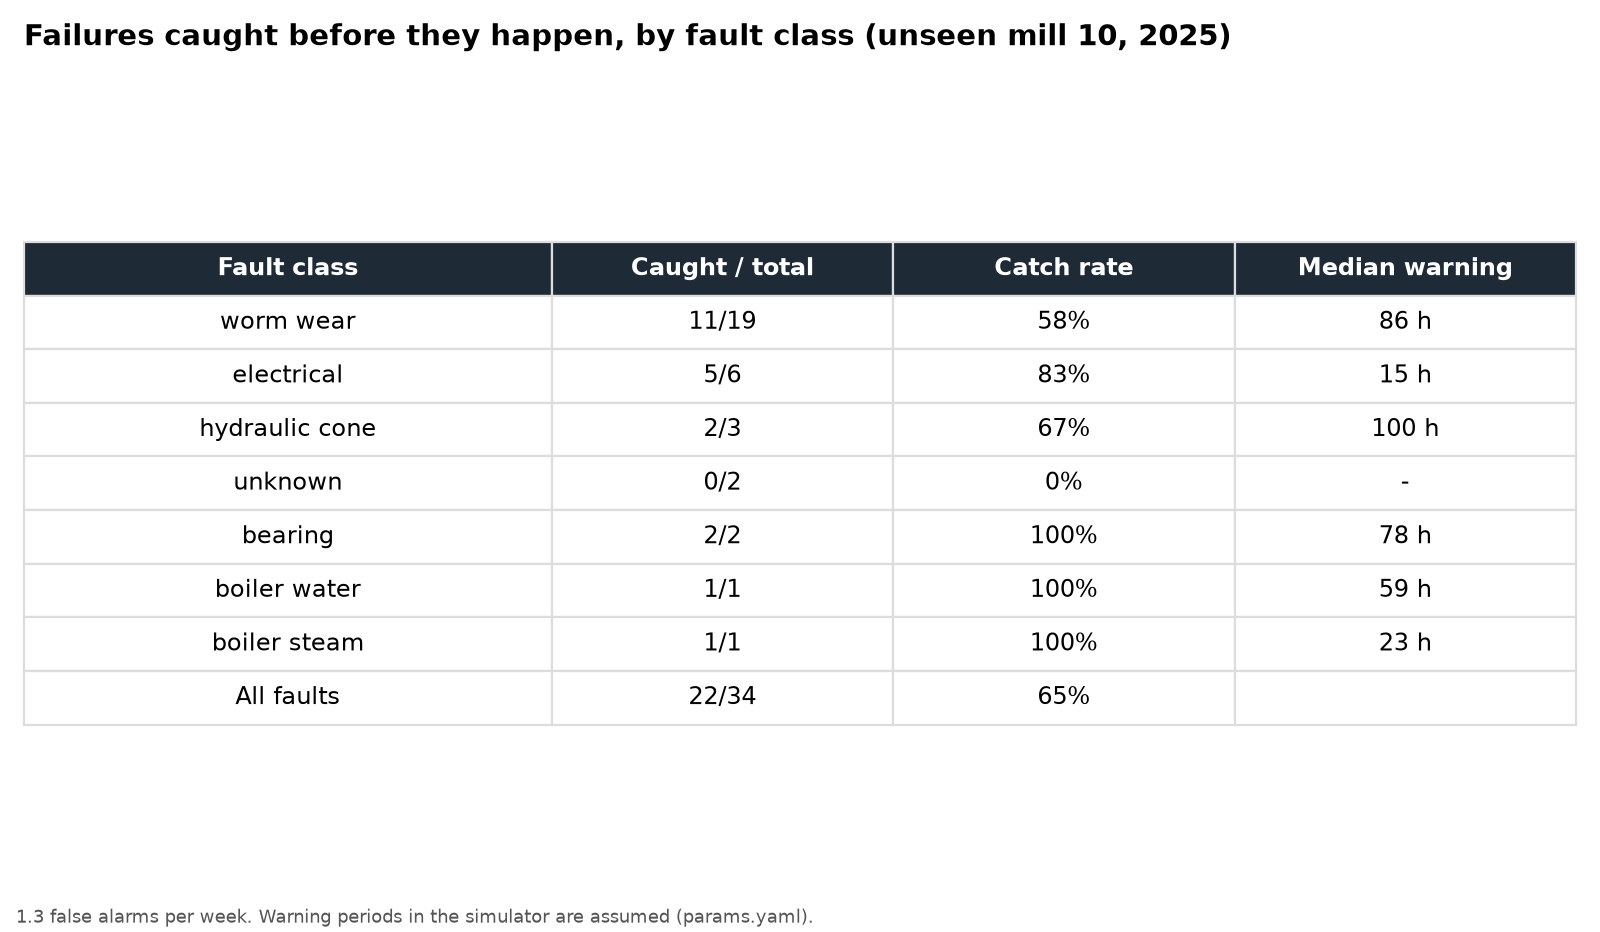
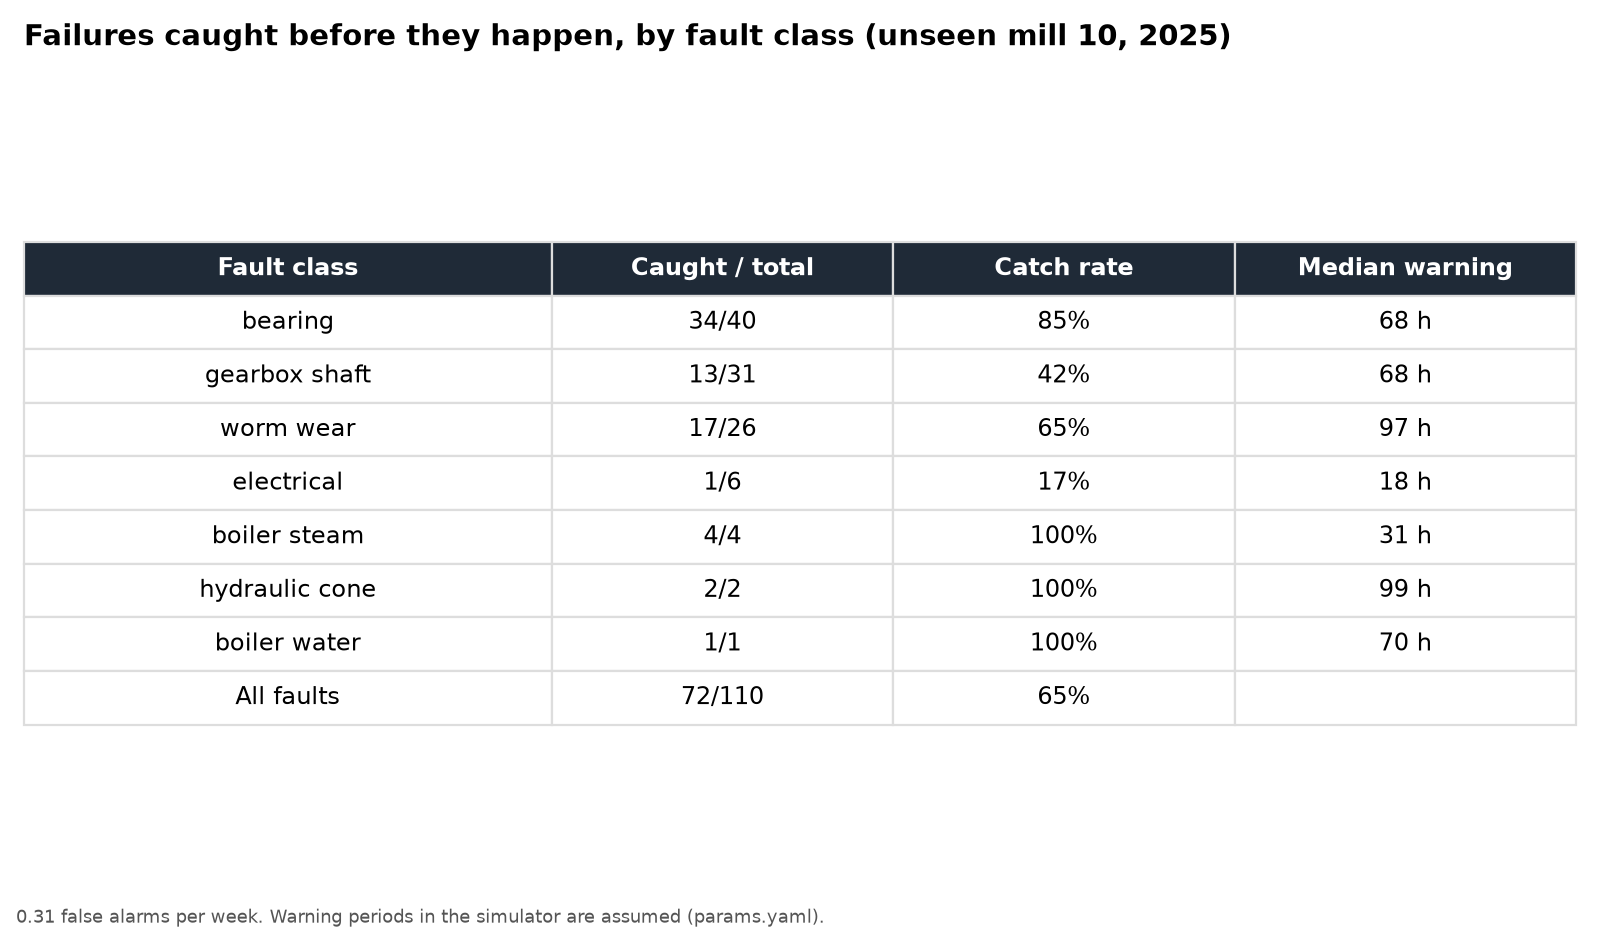
Pitch assets: final numbers

diff --git a/pitch/numbers.md b/pitch/numbers.md
@@ -16,23 +16,23 @@ All results are from simulated mills (mill 10 is unseen in training) unless mark
 ## Four policies, mill 10, 2025 (base case)
 | Policy | Cost | Breakdowns | Planned fixes | False alarms | Source |
 |---|---|---|---|---|---|
-| Fix when it breaks | RM972,848 | 34 | 0 | 0 | /api/backtest policies[run_to_failure] |
-| Fixed schedule | RM723,550 | 10 | 56 | 0 | /api/backtest policies[fixed_interval] |
-| MillGuard alone | RM557,570 | 12 | 22 | 68 | /api/backtest policies[millguard] |
-| Schedule + MillGuard | RM421,040 | 3 | 51 | 68 | /api/backtest policies[schedule_plus_millguard] |
+| Fix when it breaks | RM3,189,545 | 110 | 0 | 0 | /api/backtest policies[run_to_failure] |
+| Fixed schedule (published RCM intervals) | RM2,814,203 | 64 | 113 | 0 | /api/backtest policies[fixed_interval] |
+| MillGuard alone | RM1,740,300 | 38 | 72 | 16 | /api/backtest policies[millguard] |
+| Schedule + MillGuard | RM1,563,350 | 19 | 158 | 16 | /api/backtest policies[schedule_plus_millguard] |
 
-- Schedule + MillGuard saves **RM551,808** a year vs fixing when it breaks (57%) and **RM302,510** vs the best fixed schedule (42%). Source: /api/backtest.
-- Strict case (a wrong-class alert never finds the fault, `inspection_accuracy=0`): Schedule + MillGuard RM558,159, still RM165,391 below the fixed schedule. Source: /api/backtest?inspection_accuracy=0.
-- The fixed schedule is the best interval found by a sweep on training mills (0.5 x mean part life); Schedule + MillGuard uses 0.6 x. Source: backend/artifacts/policy_fit.json.
+- Schedule + MillGuard saves **RM1,626,195** a year vs fixing when it breaks (51%) and **RM1,250,853** vs the best fixed schedule (44%). Source: /api/backtest.
+- Strict case (a wrong-class alert never finds the fault, `inspection_accuracy=0`): Schedule + MillGuard RM1,595,654, still RM1,218,549 below the fixed schedule. Source: /api/backtest?inspection_accuracy=0.
+- The fixed schedule uses the published RCM intervals (Ishak et al. 2024: worm 525 h, bearing 533 h, shaft 400 h), no tuning; Schedule + MillGuard uses the same schedule. Source: backend/artifacts/policy_fit.json.
 
 ## Detection quality (mill 10, MillGuard alerts)
 | Number | Value | Source |
 |---|---|---|
-| Failures caught before they happened | 22 of 34 | /api/robustness test_mill |
-| Median warning time | 63 h | backend/artifacts/episodes.parquet (alert open to failure) |
-| False alarms per week | 1.3 | /api/robustness test_mill.false_alarms_per_week |
-| Press risk model AUC, 72 h / 168 h | 0.904 / 0.903 | backend/artifacts/model_metrics.json |
-| Boiler risk model AUC, 24 h | 0.998 | backend/artifacts/model_metrics.json |
+| Failures caught before they happened | 72 of 110 | /api/robustness test_mill |
+| Median warning time | 70 h | backend/artifacts/episodes.parquet (alert open to failure) |
+| False alarms per week | 0.31 | /api/robustness test_mill.false_alarms_per_week |
+| Press risk model AUC, 72 h / 168 h | 0.939 / 0.906 | backend/artifacts/model_metrics.json |
+| Boiler risk model AUC, 24 h | 0.995 | backend/artifacts/model_metrics.json |
 
 ## Real-data checks (honest)
 | Test | Result | Source |
@@ -43,14 +43,14 @@ All results are from simulated mills (mill 10 is unseen in training) unless mark
 ## Stress test (mill 10, no retraining, thresholds unchanged)
 | Condition | Caught | Schedule + MillGuard | Fixed schedule |
 |---|---|---|---|
-| No perturbation (reference) | 22/34 | RM421,040 | RM723,550 |
-| Sensor noise x2 | 9/34 | RM1,187,186 | RM723,550 |
-| 20% of readings missing | 24/34 | RM445,118 | RM723,550 |
-| 40% of readings missing | 21/34 | RM622,117 | RM723,550 |
-| Slow sensor drift (+10% over the year on current and vibration) | 24/34 | RM428,666 | RM723,550 |
-| 25% of work orders with the wrong fault class | 21/34 | RM428,966 | RM723,550 |
+| No perturbation (reference) | 72/110 | RM1,563,350 | RM2,814,203 |
+| Sensor noise x2 | 73/110 | RM1,614,806 | RM2,814,203 |
+| 20% of readings missing | 72/110 | RM1,567,124 | RM2,814,203 |
+| 40% of readings missing | 74/110 | RM1,597,202 | RM2,814,203 |
+| Slow sensor drift (+10% over the year on current and vibration) | 72/110 | RM1,556,024 | RM2,814,203 |
+| 25% of work orders with the wrong fault class | 69/110 | RM1,604,730 | RM2,814,203 |
 
-**Why noise ×3 is not on the slide:** at ×3 the model catches only 5 of 34 failures and mostly stops alerting, so its cost (RM635,716) comes from the fixed schedule underneath, not from MillGuard. It is in /api/robustness extra[] and backend/artifacts/stress_table.json if a judge asks. Noise ×2 (worse than fixed) is on the slide on purpose: MillGuard needs reasonably clean sensors or retraining on the mill's own data.
+**Why noise ×3 is not on the slide:** at ×3 the model catches only 48 of 110 failures and mostly stops alerting, so its cost (RM3,164,774) comes from the fixed schedule underneath, not from MillGuard. It is in /api/robustness extra[] and backend/artifacts/stress_table.json if a judge asks. Noise ×2 (worse than fixed) is on the slide on purpose: MillGuard needs reasonably clean sensors or retraining on the mill's own data.
 
 ## Assumptions to say out loud
 - Mills are simulated; warning periods before failure (worm 300 h, gearbox 400 h, bearing 150 h, cone 200 h) are assumed.

diff --git a/pitch/catch_by_fault_class.md b/pitch/catch_by_fault_class.md
@@ -1,10 +1,10 @@
 | Fault class | Caught / total | Median warning |
 |---|---|---|
-| worm wear | 11/19 | 86 h |
-| electrical | 5/6 | 15 h |
-| hydraulic cone | 2/3 | 100 h |
-| unknown | 0/2 | - |
-| bearing | 2/2 | 78 h |
-| boiler water | 1/1 | 59 h |
-| boiler steam | 1/1 | 23 h |
-| All faults | 22/34 |  |
+| bearing | 34/40 | 68 h |
+| gearbox shaft | 13/31 | 68 h |
+| worm wear | 17/26 | 97 h |
+| electrical | 1/6 | 18 h |
+| boiler steam | 4/4 | 31 h |
+| hydraulic cone | 2/2 | 99 h |
+| boiler water | 1/1 | 70 h |
+| All faults | 72/110 |  |
